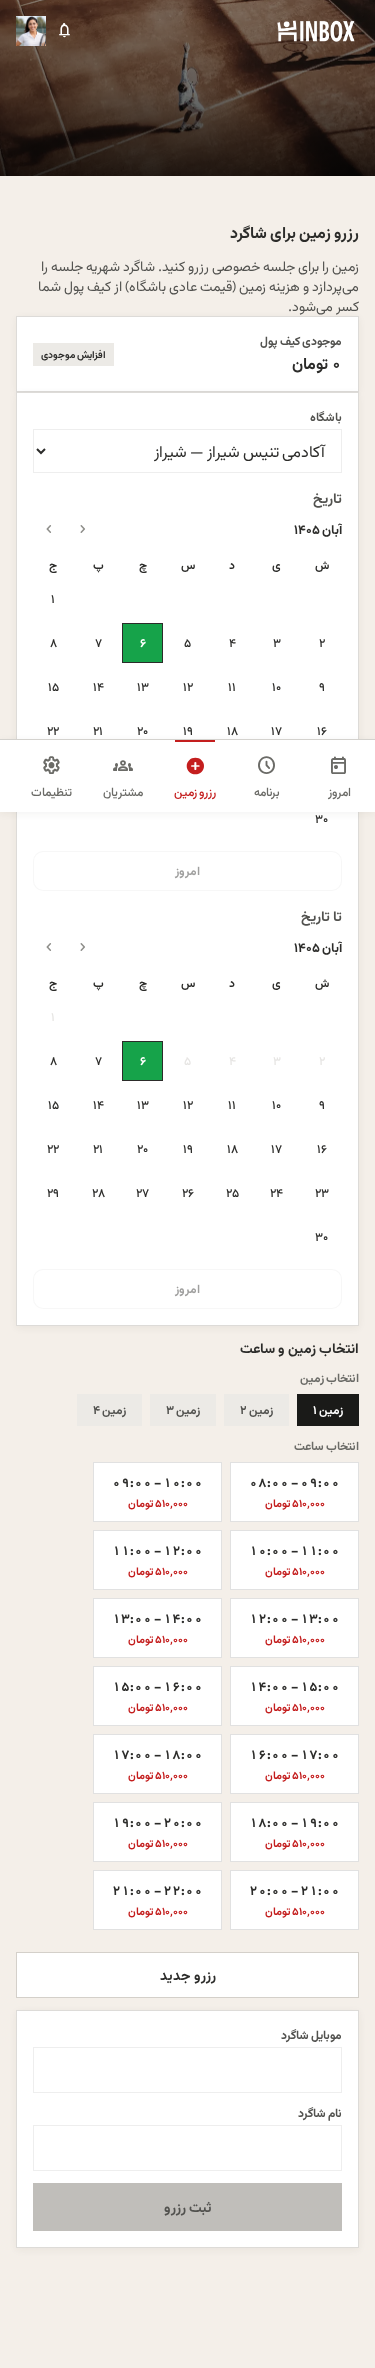
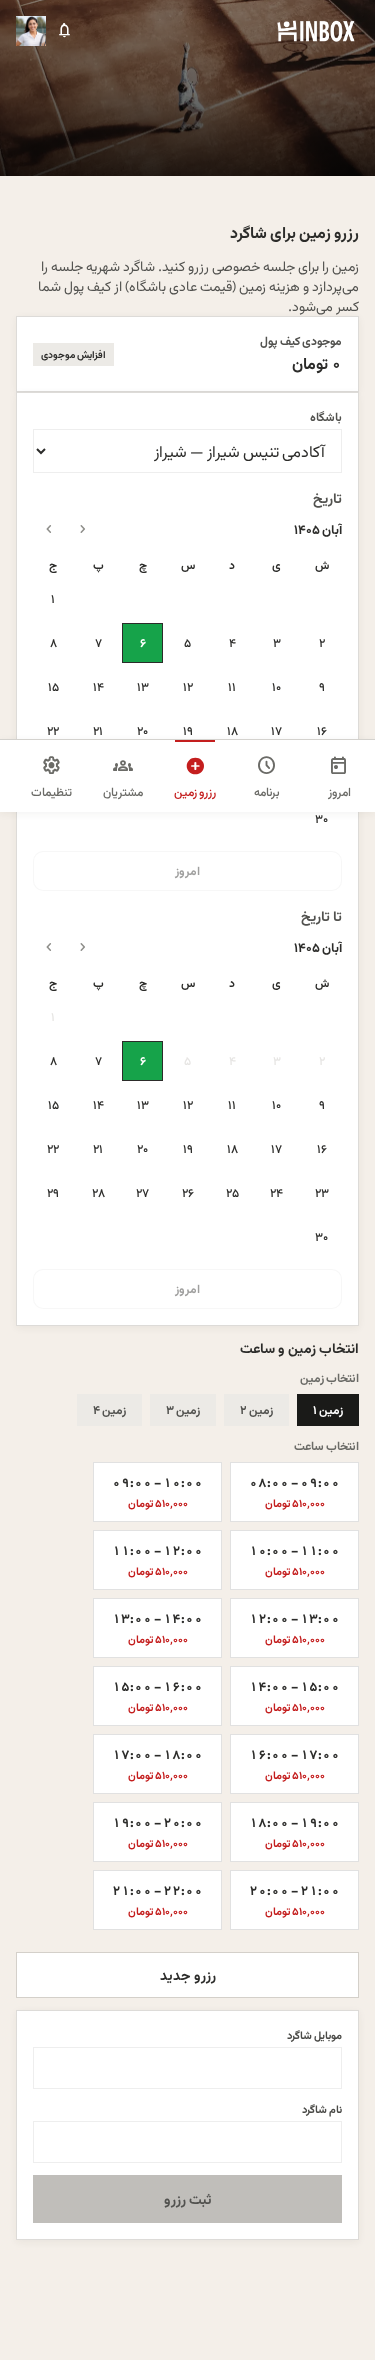
test(timeOfDay): wrap asserts in vitest it(); coach/book student inputs to SoT 42px/11px labels

diff --git a/app/pages/coach/book.vue b/app/pages/coach/book.vue
@@ -886,7 +886,7 @@ async function startTopUp() {
         </div>
       </AppAsyncState>
 
-      <section v-if="fromCalendar || clubs.length" class="canva-panel space-y-3">
+      <section v-if="fromCalendar || clubs.length" class="canva-panel cb-student space-y-3">
             <AppFormField :label="$t('coach.book.studentPhone')">
               <div class="relative" :class="studentSearchOpen && studentSearchSource === 'mobile' ? 'z-30' : ''">
                 <input
@@ -1006,6 +1006,9 @@ async function startTopUp() {
 </template>
 
 <style scoped>
+/* SoT .cxin input: 42px tall, padding 12px; .cxin small label 11px #4a4a47 */
+.cb-student .neo-input { min-height: 0; height: 42px; padding: 12px; font-size: 13px; }
+.cb-student :deep(label) { font-size: 11px; color: #4a4a47; }
 /* SoT cxCalBox: flat calendar (no inner card), cells padding 12px 0 (not square), .cxlb label */
 .cb-dates :deep(.jalali-calendar-default) { border: 0; border-radius: 0; padding: 0; box-shadow: none; }
 .cb-dates :deep(.jalali-calendar-day) { aspect-ratio: auto; height: 40px; border-radius: 0; font-size: 12px; }

diff --git a/shared/timeOfDay.test.ts b/shared/timeOfDay.test.ts
@@ -1,11 +1,13 @@
 import assert from 'node:assert/strict'
+import { it } from 'vitest'
 import { normalizeTod, slotMatchesTod, todHourRange } from './timeOfDay.ts'
 
-assert.equal(normalizeTod('evening'), 'evening')
-assert.equal(normalizeTod('nope'), '')
-assert.deepEqual(todHourRange('afternoon'), { start: 12, end: 17 })
-assert.equal(slotMatchesTod('15:00', 'afternoon'), true)
-assert.equal(slotMatchesTod('18:00', 'afternoon'), false)
-assert.equal(slotMatchesTod('20:30', 'evening'), true)
-assert.equal(slotMatchesTod('10:00', ''), true)
-console.log('timeOfDay.test.ts: ok')
+it('timeOfDay helpers: normalizeTod, todHourRange, slotMatchesTod', () => {
+  assert.equal(normalizeTod('evening'), 'evening')
+  assert.equal(normalizeTod('nope'), '')
+  assert.deepEqual(todHourRange('afternoon'), { start: 12, end: 17 })
+  assert.equal(slotMatchesTod('15:00', 'afternoon'), true)
+  assert.equal(slotMatchesTod('18:00', 'afternoon'), false)
+  assert.equal(slotMatchesTod('20:30', 'evening'), true)
+  assert.equal(slotMatchesTod('10:00', ''), true)
+})
